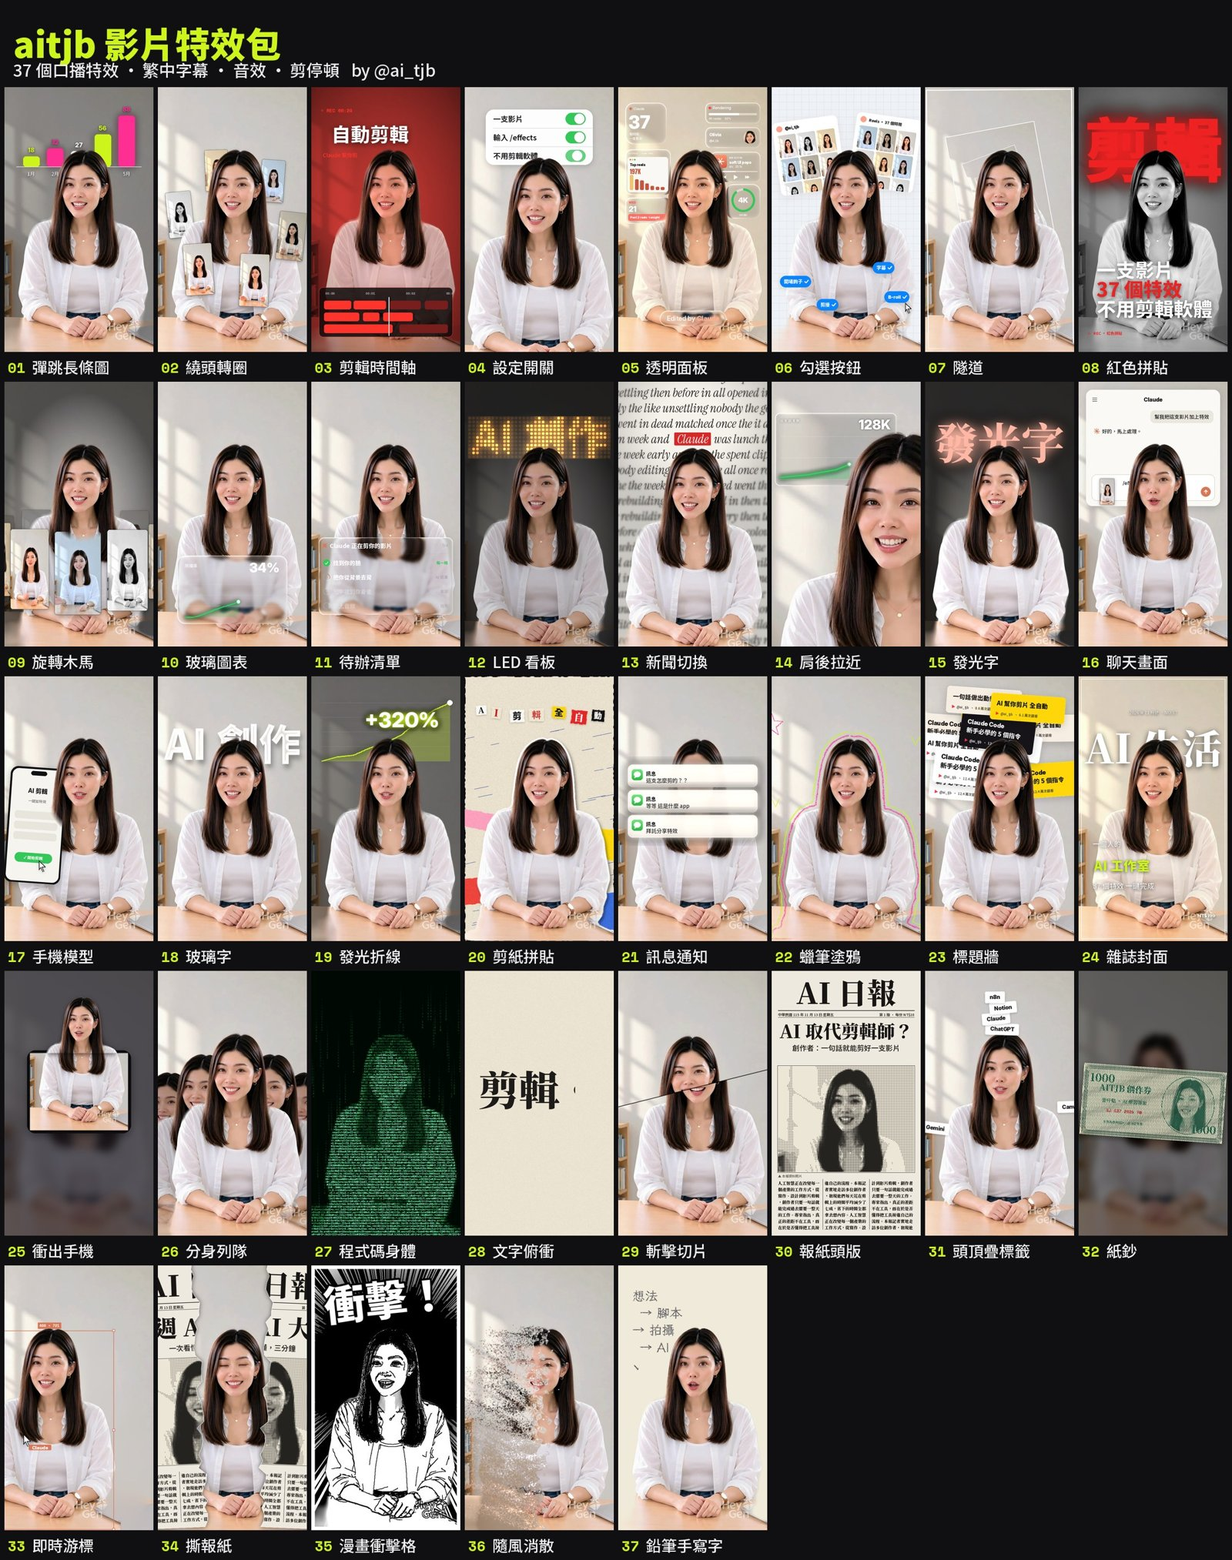
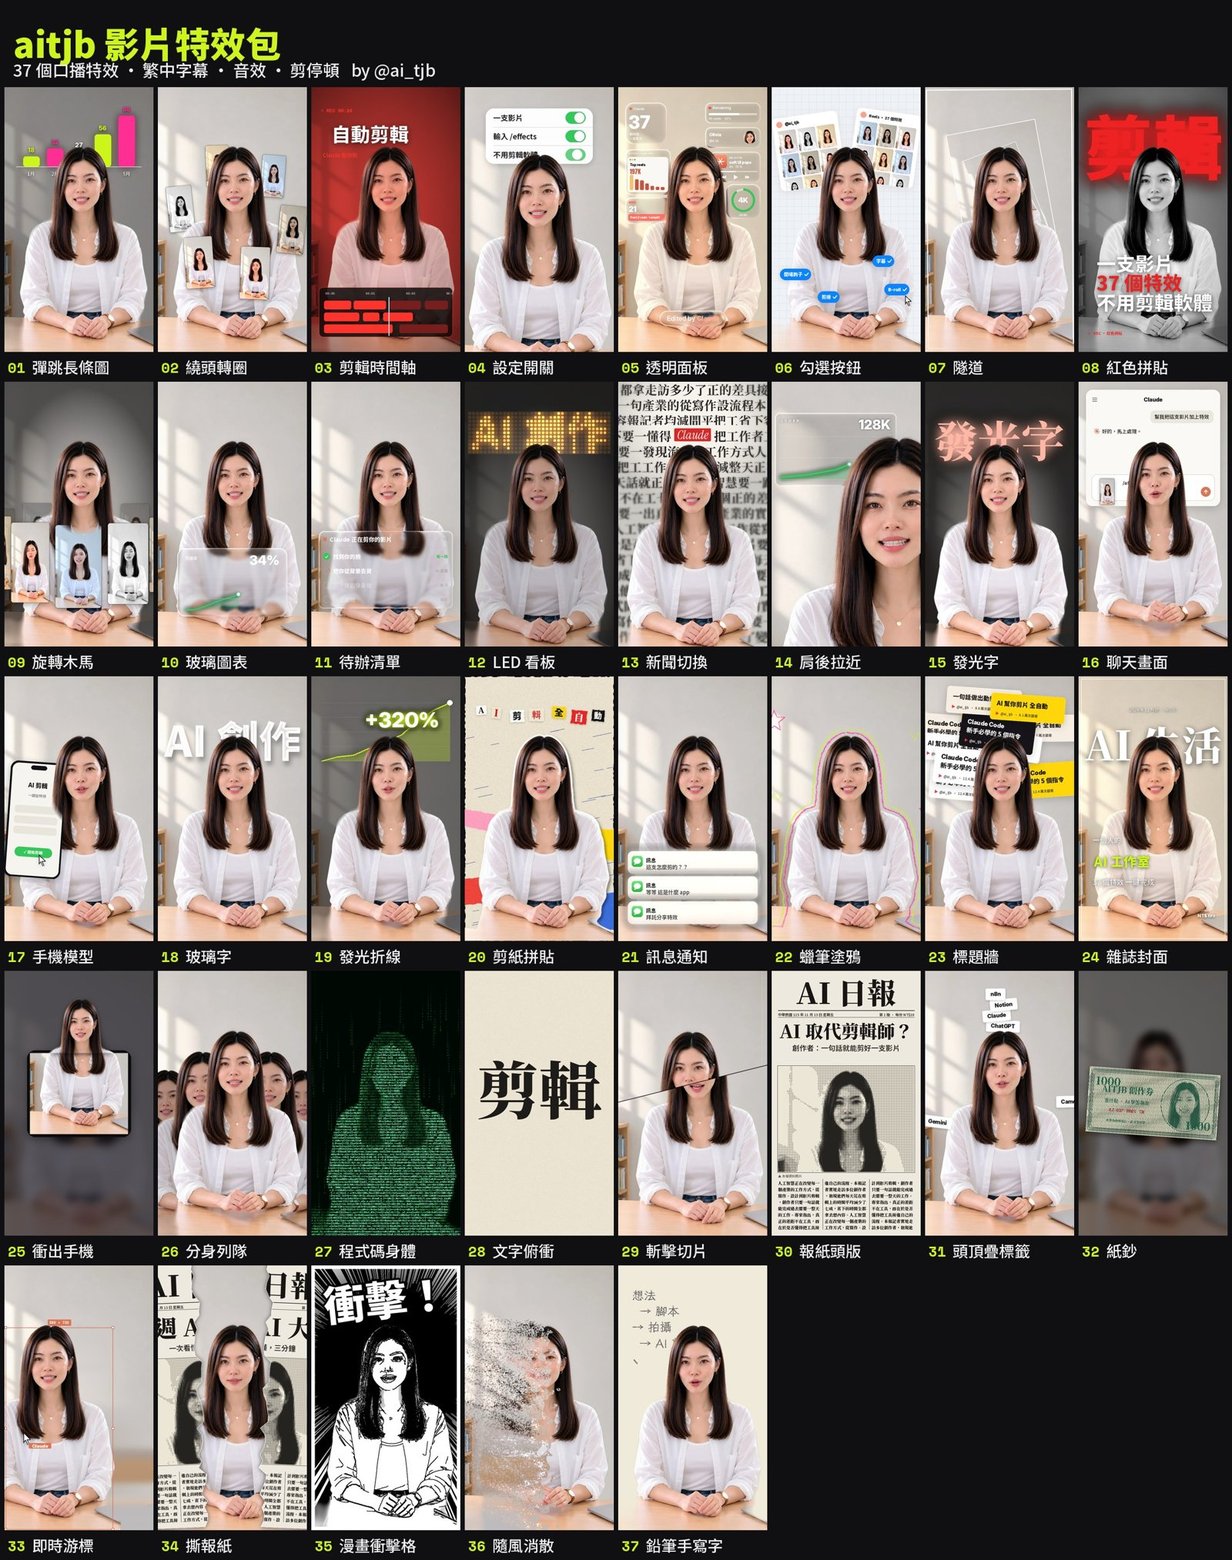
修正 QA 發現的問題、新聞切換改繁中、預覽圖換成無浮水印版
- 報紙頭版、撕報紙在橫式影片不再當掉；日期預設為今天的民國日期
- 別名忽略空格(LED 看板)；英文被拆開的字合併回來(Claude)
- 訊息通知移到下巴下方，頭頂疊標籤避開臉
- 長字自動縮小(蠟筆塗鴉、鉛筆手寫字、發光折線、紙鈔)，即時游標框不超出畫面
- 隨風消散背景補法改良，不留人形輪廓
- 字幕保留品牌大小寫；新聞切換背景改繁中報紙內文

Claude-Session: https://claude.ai/code/session_015GiwJnpnu5pBFXQSSwiEtn

diff --git a/scripts/fx.py b/scripts/fx.py
@@ -1650,14 +1650,19 @@ def match_page(c, e, j, wx, wy):
     W, H = c.W, c.H; rnd = random.Random(31 + j)
     paper = [(246, 243, 236), (236, 229, 212), (251, 251, 250), (241, 236, 228), (232, 232, 230), (248, 240, 228)][j % 6]
     kind = ['serif', 'mont', 'ui', 'serif', 'anton', 'monts'][j % 6]
-    size = W * [0.085, 0.07, 0.072, 0.095, 0.08, 0.068][j % 6]; f = font(kind, size); lh = size * 1.22
+    size = W * [0.085, 0.07, 0.072, 0.095, 0.08, 0.068][j % 6]; lh = size * 1.22
     word = e.o.get('text', 'Claude'); red = rgb(e.o.get('color'), (214, 40, 40))
     im = Image.new('RGB', (W, H), paper); d = ImageDraw.Draw(im); ink = (40, 38, 36)
-    base = f.getbbox('Ag'); asc = -base[1]
+    zh = e.o.get('lang', 'zh') != 'en'
+    if zh:  # 繁中報紙：把內文切成 2 到 4 個字一組，字之間不留空格
+        txt = re.sub(r'[，。、；：！？「」]', '', ZH_FILLER); toks = []; i = 0; rr = random.Random(5)
+        while i < len(txt): n = rr.choice((2, 3, 4)); toks.append(txt[i:i + n]); i += n
+        kind = ['serif', 'mont', 'ui', 'serif', 'bold', 'monts'][j % 6]
+    f = font(kind, size); base = f.getbbox('Ag'); asc = -base[1]
     ww = f.getlength(word); bx0 = wx - ww / 2
     def run(x, y, direction):
         while (x < W + size if direction > 0 else x > -size * 6):
-            w_ = rnd.choice(MATCH_TXT) + ' '
+            w_ = rnd.choice(toks) if zh else rnd.choice(MATCH_TXT) + ' '
             if direction < 0: x -= f.getlength(w_)
             d.text((x, y), w_, font=f, fill=ink)
             if direction > 0: x += f.getlength(w_)
@@ -2078,7 +2083,8 @@ def fx_messages(c, e):
     msgs = (e.o.get('text') or 'how did you edit this??|wait, which app is this|send me the effects pls|EFFECTS').split('|')
     title = e.o.get('title', 'Messages'); n = len(msgs); u = c.W / 2160
     gap = min(0.4, e.d * 0.75 / max(1, n)); pops = [0.13 + i * gap for i in range(n)]
-    bottom = c.H * float(e.o.get('y', 0.61)); out = fade(c, e, 0.2)
+    u2 = c.W / 2160; stack = 165 * u2 + (n - 1) * 365 * u2 + 200 * u2
+    bottom = c.H * float(e.o['y']) if e.o.get('y') is not None else min(c.H * 0.97, max(c.H * 0.61, c.fy + c.fw * 1.3 + stack)); out = fade(c, e, 0.2)
     for k in range(n):
         if c.lt < pops[k]: continue
         newer = sum(ease_out(clamp((c.lt - pops[j]) / 0.17)) for j in range(k + 1, n) if c.lt >= pops[j])
@@ -2496,7 +2502,7 @@ def cap_word_imgs(block, u, style):
     if style == 'clean': fs = lambda k: font('didoneib', 84 * u * fit) if k else font('montb', 62 * u * fit); space, maxw = 22 * u, 960 * u
     else: fs = lambda k: font('popx', (96 if k else 84) * u * fit); space, maxw = 26 * u, 960 * u
     fit = 1.0
-    txt = [(w['w'].lower() if style == 'clean' and not has_cjk(joinw(x['w'] for x in block)) else w['w']).rstrip('.,;:，。、；：！？') or w['w'] for w in block]
+    txt = [w['w'].rstrip('.,;:，。、；：！？') or w['w'] for w in block]  # aitjb: keep brand names as written (Claude Code, not claude code)
     sp = [space if i + 1 < len(txt) and gap_after(txt[i], txt[i + 1]) else (space * 0.15 if i + 1 < len(txt) else 0) for i in range(len(txt))]
     width = lambda: sum(fs(w['k']).getlength(t) for w, t in zip(block, txt)) + sum(sp[:-1])
     total = width()
@@ -2599,13 +2605,22 @@ def clean_plate(c, e):
     if pl and os.path.exists(str(pl)):
         return cached(e, 'plate', lambda: np.asarray(Image.open(str(pl)).convert('RGB').resize((c.W, c.H), Image.LANCZOS), np.float32) / 255)
     def mk():
+        # fill each row of the hole from the wall on its left and right (smooth, so no outline of you is left behind),
+        # then blend it in with a wide soft edge
         s = 4; w, h = c.W // s, c.H // s
-        small = cv2.resize((c.img * 255).astype(np.uint8), (w, h), interpolation=cv2.INTER_AREA)
-        mk_ = cv2.dilate((cv2.resize(c.m, (w, h)) > 0.25).astype(np.uint8) * 255, np.ones((9, 9), np.uint8))
-        fill = cv2.inpaint(cv2.cvtColor(small, cv2.COLOR_RGB2BGR), mk_, 9, cv2.INPAINT_TELEA)
-        fill = cv2.cvtColor(cv2.GaussianBlur(fill, (0, 0), 3), cv2.COLOR_BGR2RGB)
-        big = cv2.resize(fill, (c.W, c.H), interpolation=cv2.INTER_CUBIC).astype(np.float32) / 255
-        soft = cv2.GaussianBlur(cv2.resize(mk_, (c.W, c.H)).astype(np.float32) / 255, (0, 0), 6)[..., None]
+        small = cv2.resize(c.img, (w, h), interpolation=cv2.INTER_AREA)
+        hole = cv2.dilate((cv2.resize(c.m, (w, h)) > 0.05).astype(np.uint8), np.ones((13, 13), np.uint8)).astype(bool)
+        fill = small.copy(); xs = np.arange(w, dtype=np.float32)
+        for y in range(h):
+            row = hole[y]
+            if not row.any(): continue
+            good = ~row
+            if good.sum() < 2: fill[y] = fill[y - 1] if y else small[y]; continue
+            for ch in range(3): fill[y, row, ch] = np.interp(xs[row], xs[good], small[y, good, ch])
+        fill = cv2.GaussianBlur(fill, (0, 0), 2.5)
+        fill = small * (~hole[..., None]) + cv2.GaussianBlur(fill, (0, 0), 1.5) * hole[..., None]
+        big = cv2.resize(fill.astype(np.float32), (c.W, c.H), interpolation=cv2.INTER_CUBIC)
+        soft = cv2.GaussianBlur(cv2.resize(hole.astype(np.float32), (c.W, c.H)), (0, 0), 14)[..., None]
         return c.img * (1 - soft) + big * soft
     return cached(e, 'plate', mk)
 
@@ -2674,6 +2689,19 @@ def news_page(W, H, head, sub, photo_box, date):
             d.text((cx0, yy), txt[k:k + n], font=f, fill=ink + (235,)); k += n; yy += lh
         if ci < 2: d.line([(cx0 + col_w + 14 * u, y1 + 50 * u), (cx0 + col_w + 14 * u, H - mx)], fill=ink + (160,), width=1)
     return pg
+
+
+def news_box(c, u):
+    """The photo box on the front page, kept inside the frame for vertical and landscape video."""
+    h = min((c.W - 92 * u) * 0.78, c.H * 0.5); w = min(c.W - 92 * u, h / 0.78)
+    x0 = int((c.W - w) / 2); y0 = int(c.H * 0.36)
+    return (x0, y0, int(x0 + w), int(min(c.H - 4, y0 + h)))
+
+
+def roc_today():
+    import datetime as _dt
+    t = _dt.date.today(); wd = '一二三四五六日'[t.weekday()]
+    return f'中華民國 {t.year - 1911} 年 {t.month} 月 {t.day} 日 星期{wd}'
 
 
 def news_photo(c, x0, y0, x1, y1, cell=None):
@@ -2857,7 +2885,9 @@ def fx_chart_grow(c, e):
         big = text_img(val, 150 * u, 'uib', (255, 255, 255), glow=(col, 20 * u), shadow=6)
         place(c, big, clamp(x1 - big.width * 0.45, big.width / 2, c.W - big.width / 2), yt + big.height * 0.35, 0.6 + 0.4 * b, 0, al)
     lab = e.o.get('text')
-    if lab: place(c, cached(e, 'lab', lambda: text_img(lab, 44 * u, 'uim', (255, 255, 255), shadow=4)), x0 + 200 * u, yb + 40 * u, alpha=al, behind=True)
+    if lab:
+        li = cached(e, 'lab', lambda: fit_text(lab, c.W * 0.8, 'uim', int(44 * u), fill=(255, 255, 255), shadow=4))
+        place(c, li, x0 + li.width / 2, yb + 40 * u, alpha=al, behind=True)
 
 
 # 6
@@ -2967,7 +2997,7 @@ def fx_doodle_boil(c, e):
     comp(c, L, 0, 0, al, behind=True)
     t = e.o.get('text')
     if t and c.lt > 0.5:
-        lab = cached(e, ('t', int(st * 10) % 2), lambda: text_img(t, 90 * u, 'tchand' if has_cjk(t) else 'hand', col2, shadow=5))
+        lab = cached(e, ('t', int(st * 10) % 2), lambda: fit_text(t, c.W * 0.86, 'tchand' if has_cjk(t) else 'hand', int(90 * u), fill=col2, shadow=5))
         place(c, lab, c.W / 2 + rnd.uniform(-3, 3) * u, max(c.H * 0.08, c.fy - c.fw * 2.4), 1, rnd.uniform(-3, 3), al, guard=True)
 
 
@@ -3080,7 +3110,7 @@ def fx_code_body(c, e):
 # 12
 @effect('letter-dive', '文字俯衝：奶油色紙上一個字一個字打出來，鏡頭再飛進字裡面變回影片')
 def fx_letter_dive(c, e):
-    u = c.W / 1080; txt = e.o.get('text', '剪輯。')
+    u = c.W / 1080; txt = e.o.get('text', '剪輯')
     kind = 'tcserif' if has_cjk(txt) else 'didoneb'
     def mk():
         im = fit_text(txt, c.W * 0.86, kind, int(c.W * 0.42), fill=(255, 255, 255))
@@ -3138,8 +3168,8 @@ def fx_blade_slice(c, e):
 def fx_press_front(c, e):
     u = c.W / 1080; al = fade(c, e); k = ease_out(c.lt / 0.35)
     head = e.o.get('text', 'AI 取代剪輯師？'); sub = e.o.get('sub', '創作者：一句話就能剪好一支影片')
-    date = e.o.get('date', '中華民國 115 年 11 月 13 日 星期五')
-    bx = (int(46 * u), int(c.H * 0.36), int(c.W - 46 * u), int(c.H * 0.36 + (c.W - 92 * u) * 0.78))
+    date = e.o.get('date') or roc_today()
+    bx = news_box(c, u)
     def mk():
         pg = news_page(c.W, c.H, head, sub, bx, date); return to_np(pg)[..., :3]
     pg = cached(e, 'pg', mk)
@@ -3173,7 +3203,7 @@ def fx_head_stack(c, e):
         rot = r
         if collapse:
             yy += (ck ** 2) * c.H * (0.9 + 0.15 * j); rot = r + ck * (60 if j % 2 else -60); x = x + ck * (j % 3 - 1) * c.W * 0.2
-        place(c, im, x, yy, 1, rot); place(c, lb, x, yy - 2 * u, 1, rot)
+        place(c, im, x, yy, 1, rot, guard=True); place(c, lb, x, yy - 2 * u, 1, rot, guard=True)
 
 
 # 16
@@ -3188,7 +3218,7 @@ def engrave(gray, period):
 @effect('banknote', '紙鈔：把你變成一張紙鈔風格的鈔票（虛構設計，不是真鈔）')
 def fx_banknote(c, e):
     u = c.W / 1080; al = fade(c, e); k = ease_out(c.lt / 0.4)
-    nw = int(c.W * 0.96); nh = int(nw * 0.5); ink = np.float32(rgb(e.o.get('color'), (34, 92, 70))) / 255
+    nw = int(c.W * 0.88); nh = int(nw * 0.5); ink = np.float32(rgb(e.o.get('color'), (34, 92, 70))) / 255
     def base():
         im = Image.new('RGBA', (nw, nh), (226, 222, 196, 255)); d = ImageDraw.Draw(im)
         for i in range(0, nw, max(4, int(11 * u))):  # guilloche wave pattern
@@ -3200,7 +3230,9 @@ def fx_banknote(c, e):
         col = tuple(int(v * 255) for v in ink) + (255,)
         val = e.o.get('value', '1000'); name = e.o.get('text', 'AITJB 創作券')
         d.text((50 * u, 40 * u), val, font=font('tcserif', 78 * u), fill=col); d.text((nw - 50 * u, nh - 40 * u), val, font=font('tcserif', 78 * u), fill=col, anchor='rd')
-        d.text((nw * 0.3, nh * 0.32), name, font=font('tcserif', 60 * u), fill=col, anchor='mm')
+        fs_ = 60 * u
+        while font('tcserif', fs_).getlength(name) > nw * 0.46 and fs_ > 12: fs_ *= 0.92
+        d.text((nw * 0.3, nh * 0.32), name, font=font('tcserif', fs_), fill=col, anchor='mm')
         d.text((nw * 0.3, nh * 0.5), e.o.get('words', '壹仟點 · AI 學習基金'), font=font('tcm', 34 * u), fill=col, anchor='mm')
         d.text((nw * 0.3, nh * 0.64), e.o.get('serial', 'AJ 037 2026 TW'), font=font('mono', 30 * u), fill=(170, 40, 40, 255), anchor='mm')
         d.text((nw * 0.3, nh * 0.8), '本券為娛樂設計，非法定貨幣', font=font('tcm', 22 * u), fill=col, anchor='mm')
@@ -3239,7 +3271,8 @@ def fx_live_cursor(c, e):
         c.m = cv2.warpAffine(c.m, np.float32([[1, 0, dx], [0, 1, 0]]), (c.W, c.H))
         c.fx += dx
     fk = ease_out((c.lt - 0.1) / 0.3)
-    lay = Image.new('RGBA', (c.W, c.H), (0, 0, 0, 0)); d = ImageDraw.Draw(lay); x0, x1 = bx0 + dx - 20 * u, bx1 + dx + 20 * u; y0 = by0 - 20 * u
+    lay = Image.new('RGBA', (c.W, c.H), (0, 0, 0, 0)); d = ImageDraw.Draw(lay)
+    x0, x1 = max(8 * u, bx0 + dx - 20 * u), min(c.W - 8 * u, bx1 + dx + 20 * u); y0 = max(40 * u, by0 - 20 * u)
     if fk > 0:
         d.rectangle([x0, y0, x1, by1], outline=col + (int(255 * fk),), width=max(2, int(4 * u)))
         hs = 18 * u
@@ -3267,9 +3300,9 @@ def fx_live_cursor(c, e):
 @effect('paper-tear', '撕報紙：報紙頭版從中間撕開往左右飛走，露出你的影片')
 def fx_paper_tear(c, e):
     u = c.W / 1080; head = e.o.get('text', '本週 AI 大事'); sub = e.o.get('sub', '一次看懂，三分鐘')
-    bx = (int(46 * u), int(c.H * 0.36), int(c.W - 46 * u), int(c.H * 0.36 + (c.W - 92 * u) * 0.78))
+    bx = news_box(c, u)
     def mk():
-        pg = to_np(news_page(c.W, c.H, head, sub, bx, e.o.get('date', '中華民國 115 年 11 月 13 日 星期五')))
+        pg = to_np(news_page(c.W, c.H, head, sub, bx, e.o.get('date') or roc_today()))
         pg[bx[1]:bx[3], bx[0]:bx[2], :3] = news_photo(c, *bx)
         rnd = random.Random(4); ys = np.arange(0, c.H + 24, 24); xs = c.W / 2 + np.array([rnd.uniform(-1, 1) * 34 * u for _ in ys])
         tear = np.interp(np.arange(c.H), ys, xs).astype(np.float32)
@@ -3330,7 +3363,10 @@ def fx_blow_away(c, e):
     xx = np.arange(c.W, dtype=np.float32)[None, :]
     fxp = front_x(c.lt)
     keep = np.clip(((xx - fxp) + noise) / (8 * u), 0, 1) if wind < 0 else np.clip(((fxp - xx) + noise) / (8 * u), 0, 1)
-    pm = c.m * keep; gone = c.m * (1 - keep)
+    pm = c.m * keep
+    k_ = max(3, int(12 * u)) | 1  # reach a little past your outline, so the soft edge of the cut-out doesn't stay behind
+    m_wide = cv2.GaussianBlur(cv2.dilate(c.m, np.ones((k_, k_), np.uint8)), (0, 0), 3 * u)
+    gone = np.clip(m_wide * (1 - keep), 0, 1)
     def seeds():
         step = max(2, int(3 * u)); ys, xs = np.nonzero(c.m[::step, ::step] > 0.5); ys, xs = ys * step, xs * step
         jitter = np.random.default_rng(7).random((2, len(xs))).astype(np.float32)
@@ -3368,7 +3404,7 @@ def fx_sketch_words(c, e):
     lines = opt_lines(e, 'text', '想法|→ 腳本|→ 拍攝|→ AI 剪輯|✓ 發布')
     ink = (70, 70, 78); y = c.H * 0.08; per = max(0.3, (e.d - 0.6) / max(1, len(lines)))
     for j, ln in enumerate(lines):
-        im = cached(e, ('l', j), lambda: text_img(ln, 92 * u, 'tchand' if has_cjk(ln) else 'hand', ink))
+        im = cached(e, ('l', j), lambda: fit_text(ln, c.W * 0.84, 'tchand' if has_cjk(ln) else 'hand', int(min(92 * u, (max(head_top(e), c.H * 0.3) - c.H * 0.06) / max(1, len(lines)) / 1.05)), fill=ink))
         a = np.asarray(im, np.float32) / 255; g = cached(e, ('g', j), lambda: (np.random.default_rng(j).random(a.shape[:2]) > 0.18).astype(np.float32))
         a[..., 3] *= g * 0.9
         rv = clamp((c.lt - 0.3 - per * j) / (per * 0.85))
@@ -3539,7 +3575,7 @@ def main():
         for kv in a.opt: k, v = kv.split('=', 1); d[k] = v
         plan = [d]
     for d in plan:
-        d['fx'] = ALIASES.get(d['fx'].lower().lstrip('/').strip(), d['fx'].lower().lstrip('/').strip().replace('_', '-'))
+        k_ = d['fx'].lower().lstrip('/').strip(); d['fx'] = ALIASES.get(k_, ALIASES.get(k_.replace(' ', ''), k_.replace('_', '-')))
         if d['fx'] in LOOK_NAMES: d['fx'], look = LOOK_NAMES[d['fx']]; d.setdefault('look', look)
         if d['fx'] not in EFFECTS: sys.exit(f"Unknown effect '{d['fx']}'. Run --list to see all {len(EFFECTS)}.")
     fr, fps, dur, sw, sh = probe(src)

diff --git a/scripts/words.py b/scripts/words.py
@@ -45,8 +45,7 @@ def _transcribe(src, model_name=None):
     try:
         import mlx_whisper
         r = mlx_whisper.transcribe(src, path_or_hf_repo='mlx-community/whisper-large-v3-turbo', word_timestamps=True, language=lang, initial_prompt=ZH_PROMPT if lang in (None, 'zh') else None)
-        return [{'w': w['word'].strip(), 's': round(w['start'], 2), 'e': round(w['end'], 2)}
-                for seg in r['segments'] for w in seg.get('words', [])]
+        return merge_pieces([(w['word'], w['start'], w['end']) for seg in r['segments'] for w in seg.get('words', [])])
     except ImportError:
         pass
     try:
@@ -63,7 +62,20 @@ def _transcribe(src, model_name=None):
         lang = info.language
     segs, _ = model.transcribe(audio, word_timestamps=True, vad_filter=True, language=lang,
                                initial_prompt=ZH_PROMPT if lang == 'zh' else None)
-    return [{'w': w.word.strip(), 's': round(w.start, 2), 'e': round(w.end, 2)} for s in segs for w in (s.words or [])]
+    return merge_pieces([(w.word, w.start, w.end) for s in segs for w in (s.words or [])])
+
+
+def merge_pieces(raw):
+    """Whisper sometimes splits an English word inside Chinese speech ("C" "la" "ude"). Pieces that had no space
+    before them are glued back onto the English piece before, so captions show "Claude"."""
+    out = []
+    for word, s, e in raw:
+        t = word.strip()
+        if not t: continue
+        glue = out and not word.startswith(' ') and t[0].isascii() and t[0].isalnum() and out[-1]['w'][-1:].isascii() and out[-1]['w'][-1:].isalnum()
+        if glue: out[-1]['w'] += t; out[-1]['e'] = round(e, 2)
+        else: out.append({'w': t, 's': round(s, 2), 'e': round(e, 2)})
+    return out
 
 
 def words_path(src): return os.path.splitext(src)[0] + '.words.json'

diff --git a/SKILL.md b/SKILL.md
@@ -104,13 +104,13 @@ description: aitjb 版影片特效包：37 個口播影片特效、逐字字幕(
 |---|---|---|---|---|
 | 26 | `clone-row` | 分身列隊 | 身後左右各排出 3 個分身，最後被吸回你身上 | `count`(每邊幾個，預設 3)、`gap` |
 | 27 | `code-body` | 程式碼身體 | 一道光由上往下掃，身體變成綠色程式碼 | `text`(用哪些字元)、`color`、`cell` |
-| 28 | `letter-dive` | 文字俯衝 | 奶油色紙上一個字一個字打出來，鏡頭飛進字裡變回影片 | `text`(預設「剪輯。」) |
+| 28 | `letter-dive` | 文字俯衝 | 奶油色紙上一個字一個字打出來，鏡頭飛進字裡變回影片 | `text`(預設「剪輯」，用筆畫粗的字最好看) |
 | 29 | `blade-slice` | 斬擊切片 | 白光斜斜劃過，畫面從嘴巴高度錯開再合回來 | `angle`、`shift` |
-| 30 | `press-front` | 報紙頭版 | 整個畫面變成報紙頭版，你在網點黑白照片裡說話 | `text`(頭條)、`sub`、`date` |
+| 30 | `press-front` | 報紙頭版 | 整個畫面變成報紙頭版，你在網點黑白照片裡說話 | `text`(頭條)、`sub`、`date`(預設今天的民國日期) |
 | 31 | `head-stack` | 頭頂疊標籤 | 白色標籤掉下來疊在頭上和肩膀旁，最後崩塌 | `text`(標籤用 `\|`)、`every` |
-| 32 | `banknote` | 紙鈔 | 你變成紙鈔風格的鈔票(虛構設計，不是真鈔) | `text`(券名)、`value`、`words`、`serial`、`color` |
+| 32 | `banknote` | 紙鈔 | 你變成紙鈔風格的鈔票(虛構設計，不是真鈔) | `text`(券名)、`value`、`words`、`serial`、`color`、`rot`(傾斜角度) |
 | 33 | `live-cursor` | 即時游標 | 掛 Claude 名牌的游標出現，連框把你拖到旁邊再放回來 | `text`(名牌)、`color`、`dist`、`plate`(沒有人的同一張畫面) |
-| 34 | `paper-tear` | 撕報紙 | 報紙頭版從中間撕開往左右飛走，露出你 | `text`(頭條)、`sub`、`at` |
+| 34 | `paper-tear` | 撕報紙 | 報紙頭版從中間撕開往左右飛走，露出你 | `text`(頭條)、`sub`、`at`、`date` |
 | 35 | `impact-frame` | 漫畫衝擊格 | 黑白漫畫格加集中線和大字，背景黑白一直反轉 | `text`(預設「衝擊！」)、`rate` |
 | 36 | `blow-away` | 隨風消散 | 身體從左邊化成沙粒往左飄走，最後只剩空椅子 | `dir`(`left` 或 `right`)、`span`、`plate`(沒有人的同一張畫面，例如空椅子) |
 | 37 | `sketch-words` | 鉛筆手寫字 | 背景變成奶油色紙，身後一行行出現鉛筆手寫字 | `text`(每行用 `\|`) |
@@ -125,7 +125,7 @@ description: aitjb 版影片特效包：37 個口播影片特效、逐字字幕(
 ## 繁體中文
 - 畫面上的字只要有中文，就會自動換成對應的繁中字體：粗黑體 → 思源黑體 Black、襯線 → 思源宋體、手寫 → 霞鶩文楷。不用另外設定。
 - 引擎原本的效果，預設文字已改成繁中；使用者給的文字永遠優先。要英文預設可以加 `"lang": "en"`。
-- 文字用台灣用語(影片、軟體、剪輯、品質)，不要用大陸用語(視頻、軟件、剪接師)。
+- 文字用台灣用語(影片、軟體、資料、品質)，不要用大陸用語(視頻、軟件、數據、質量)。
 
 ## aitjb 品牌設定
 - 預設色：萊姆綠 `#CDF51C` × 電光粉 `#FF2E93`(新效果的圖表、塗鴉、封面重點字)。要換色就用 `color`。
@@ -136,6 +136,8 @@ description: aitjb 版影片特效包：37 個口播影片特效、逐字字幕(
 - 不要蓋到臉。東西要嘛在頭後面，要嘛自己避開臉；檢查畫面時如果字還是壓到臉，就移動它(`x`、`y`)或縮短文字。
 - 效果照列出的順序跑。重疊時把鏡頭類效果(`lean-in`、`spotlight`、`blade-slice`、`frame-break`)放前面。字幕永遠最後畫、在最上層。
 - 縮放不超過 2 倍，畫質才不會糊。
+- 這包是為直式口播設計的。橫式影片也能跑，但 `ui-world`、`phone-mockup`、`frame-break` 的版面會擠，建議只用在直式。
+- 新效果的動畫大約需要 1.5 秒才演完，給它們至少 1.5 秒(`split-graph`、`chart-grow`、`clone-row`、`live-cursor`、`sketch-words` 建議 2 秒以上)。
 - 圖表、計數器、頭條要用使用者真實的數字。不知道就問，不要自己編。
 - `blow-away`、`live-cursor` 會把你從畫面拿掉。使用者有給「同一個畫面但沒有人」的圖(例如空椅子)，就用 `plate=圖檔路徑`；沒有的話，空出來的背景是用演算法補的，會偏模糊，背景越單純越好。
 - `banknote` 只做虛構的紙鈔風設計，不要照著任何真實貨幣畫。

diff --git a/README.md b/README.md
@@ -34,7 +34,7 @@ Windows(PowerShell)把 `~/.claude/skills/effects` 換成 `$HOME\.claude\skills\e
 /effects 先剪掉停頓，再加 bold 字幕
 /effects 分身列隊 從 3 到 6 秒
 /effects 報紙頭版 頭條寫「AI 取代剪輯師？」 開場 2 秒
-/effects 講到「數據」的時候 用彈跳長條圖，數字 12、30、58
+/effects 講到「成長」的時候 用彈跳長條圖，數字 12、30、58
 ```
 
 中文名、英文名(`clone-row`)、底線寫法(`paper_cut`)都可以。
